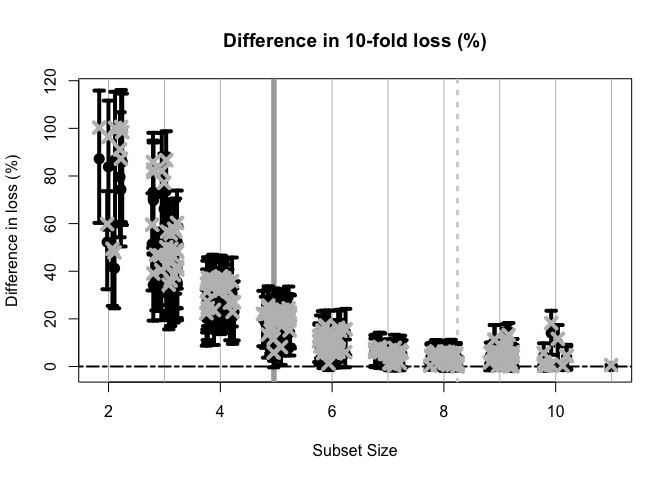
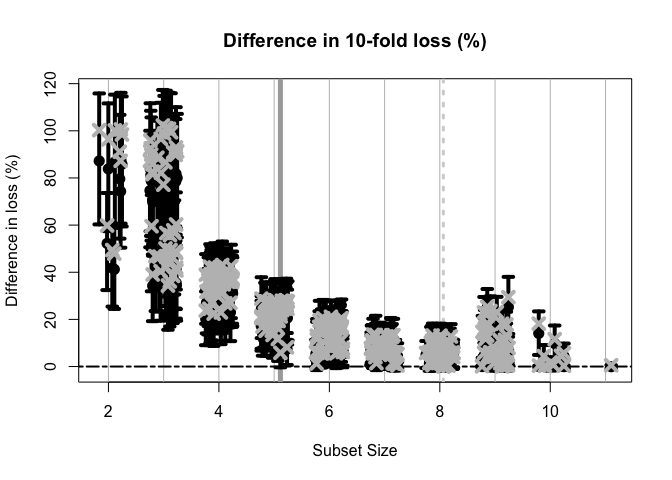
Added and updated vignettes

diff --git a/README.md b/README.md
@@ -103,8 +103,8 @@ fit = bayeslm(y ~ X[,-1], # intercept already included
               burnin = 5000 # initial samples to discard
 )
 #> horseshoe prior 
-#> fixed running time 0.00331562
-#> sampling time 0.249293
+#> fixed running time 0.00316339
+#> sampling time 0.270838
 
 # Extract the posterior predictive draws and lpd:
 temp = post_predict(post_y_hat = tcrossprod(fit$beta, X),
@@ -116,15 +116,15 @@ post_lpd = temp$post_lpd
 
 Using the model output, we enumerate a collection of “candidate
 subsets”. For small $p$ it may be possible to include all possible
-subsets, but for general use, we screen to the “best” `n_best` models of
-each size according to squared error loss. We store these in a Boolean
-matrix `indicators`: each row is an individual subset, while the columns
+subsets. Here, we screen to the “best” `n_best = 50` models of each size
+according to squared error loss. We store these in a Boolean matrix
+`indicators`: each row is an individual subset, while the columns
 indicate which variables are included (`TRUE`) or excluded (`FALSE`).
 
 ``` r
 indicators = branch_and_bound(yy = fitted(fit), # response is the fitted values
                              XX = X,            # covariates
-                             n_best = 30        # restrict to the "best" 30 subsets of each size
+                             n_best = 50        # restrict to the "best" 50 subsets of each size
 )
 
 # Inspect:
@@ -138,23 +138,16 @@ indicators[1:5, 1:10]
 
 # Dimensions:
 dim(indicators)
-#> [1] 231  11
+#> [1] 361  11
 
-# Model sizes:
-rowSums(indicators) # note: intercept always included
-#>   [1]  2  2  2  2  2  2  2  2  2  2  3  3  3  3  3  3  3  3  3  3  3  3  3  3  3
-#>  [26]  3  3  3  3  3  3  3  3  3  3  3  3  3  3  3  4  4  4  4  4  4  4  4  4  4
-#>  [51]  4  4  4  4  4  4  4  4  4  4  4  4  4  4  4  4  4  4  4  4  5  5  5  5  5
-#>  [76]  5  5  5  5  5  5  5  5  5  5  5  5  5  5  5  5  5  5  5  5  5  5  5  5  5
-#> [101]  6  6  6  6  6  6  6  6  6  6  6  6  6  6  6  6  6  6  6  6  6  6  6  6  6
-#> [126]  6  6  6  6  6  7  7  7  7  7  7  7  7  7  7  7  7  7  7  7  7  7  7  7  7
-#> [151]  7  7  7  7  7  7  7  7  7  7  8  8  8  8  8  8  8  8  8  8  8  8  8  8  8
-#> [176]  8  8  8  8  8  8  8  8  8  8  8  8  8  8  8  9  9  9  9  9  9  9  9  9  9
-#> [201]  9  9  9  9  9  9  9  9  9  9  9  9  9  9  9  9  9  9  9  9 10 10 10 10 10
-#> [226] 10 10 10 10 10 11
+# Summarize the model sizes:
+table(rowSums(indicators)) # note: intercept always included
+#> 
+#>  2  3  4  5  6  7  8  9 10 11 
+#> 10 45 50 50 50 50 50 45 10  1
 ```
 
-From this collection of 231 candidate subsets, we seek to filter to the
+From this collection of 361 candidate subsets, we seek to filter to the
 **acceptable family** of subsets, i.e., those “near-optimal” subsets
 that predict about as well as the “best” subset. These are computed
 based on 10-fold cross-validation, and use the out-of-sample predictive
@@ -177,11 +170,11 @@ accept_info = accept_family(post_y_pred = post_y_pred,
 
 # How many subsets are in the acceptable family?
 length(accept_info$all_accept)
-#> [1] 98
+#> [1] 103
 
 # These are the rows of `indicators` that belong to the acceptable family:
 head(accept_info$all_accept)
-#> [1]  71 101 102 103 104 105
+#> [1] 106 156 157 158 159 160
 
 # An example acceptable subset:
 ex_accept = accept_info$all_accept[1]
